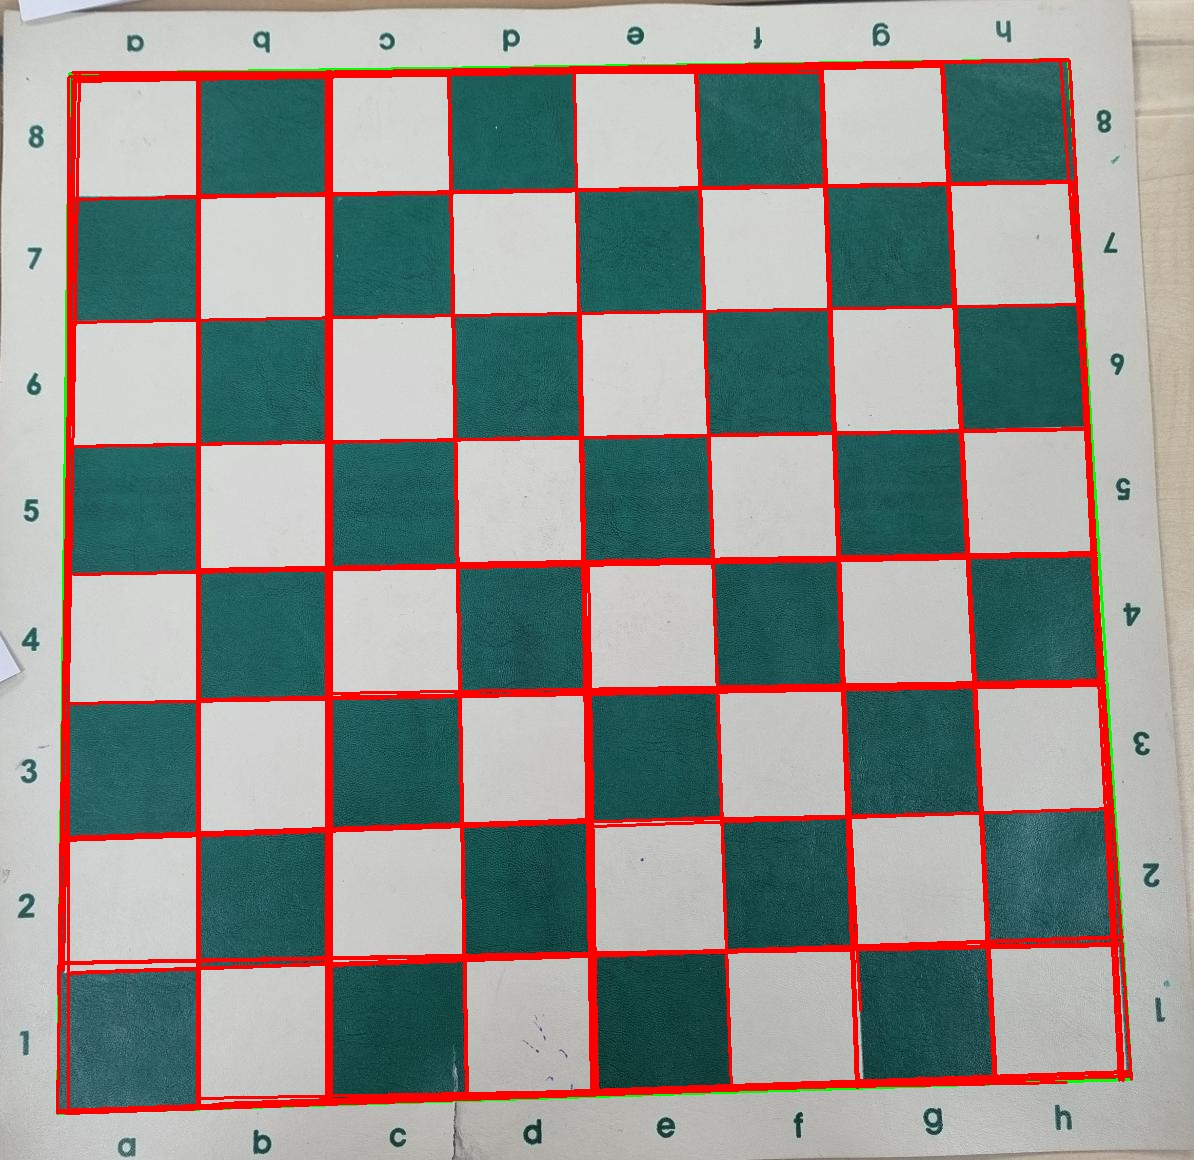
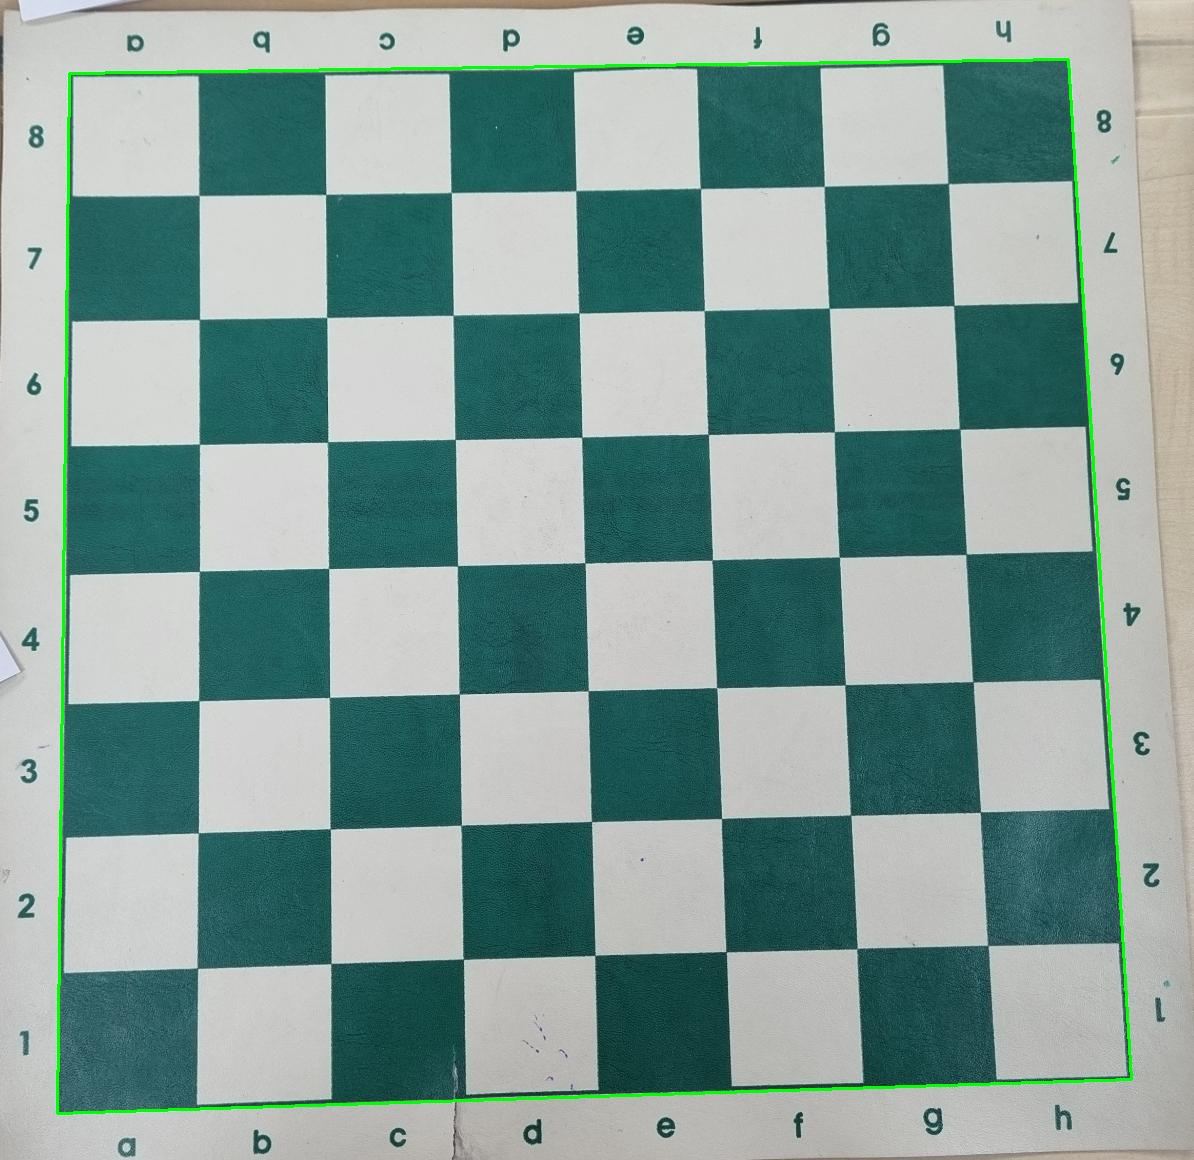
a

Changed region(s): [[0.031, 0.031, 0.9606, 0.9621]]

diff --git a/tajriba.py b/tajriba.py
@@ -1,0 +1,47 @@
+import cv2
+import numpy as np
+
+# Chemin de l'image
+image_path = 'C:\\Users\\hp\\Desktop\\connectmobile\\image'
+output_path = 'C:\\Users\\hp\\Desktop\\connectmobile\\image'
+
+def compter_carreaux_blancs(nom_image):
+    # Charger l'image depuis le fichier
+    image = cv2.imread(f"{image_path}\\{nom_image}")
+
+    # Convertir l'image en niveaux de gris
+    gray = cv2.cvtColor(image, cv2.COLOR_BGR2GRAY)
+
+    # Définir les plages de couleurs que vous souhaitez détecter (noir et blanc)
+    lower_black = 0
+    upper_black = 100
+
+    lower_white = 150
+    upper_white = 255
+
+    # Créer les masques pour chaque plage de couleurs
+    mask_black = cv2.inRange(gray, lower_black, upper_black)
+    mask_white = cv2.inRange(gray, lower_white, upper_white)
+
+    # Appliquer les masques à l'image d'origine
+    result_black = cv2.bitwise_and(gray, gray, mask=mask_black)
+    result_white = cv2.bitwise_and(gray, gray, mask=mask_white)
+
+    # Trouver les contours dans les images résultantes
+    contours_black, _ = cv2.findContours(mask_black, cv2.RETR_EXTERNAL, cv2.CHAIN_APPROX_SIMPLE)
+    contours_white, _ = cv2.findContours(mask_white, cv2.RETR_EXTERNAL, cv2.CHAIN_APPROX_SIMPLE)
+
+    # Dessiner les contours sur l'image d'origine
+    image_with_contours = image.copy()
+    cv2.drawContours(image_with_contours, contours_white, -1, (255, 0, 0), 2)  # Bleu pour les contours blancs
+    cv2.drawContours(image_with_contours, contours_black, -1, (0, 0, 255), 2)  # Rouge pour les contours noirs
+    # Enregistrer l'image avec les contours
+    cv2.imwrite(f'{output_path}\\contours_{nom_image}', image_with_contours)
+
+    # Compter le nombre de carreaux blancs
+    nombre_carreaux_blancs = len(contours_white)
+    print(f"Nombre de carreaux blancs : {nombre_carreaux_blancs}")
+    nombre_carreaux_noirs = len(contours_black)
+    print(f"Nombre de carreaux blancs : {nombre_carreaux_noirs}")
+
+compter_carreaux_blancs("copy_b.jpg")

diff --git a/test.py b/test.py
@@ -1,7 +1,34 @@
-from PIL import Image
-# Fonction pour obtenir les dimensions d'une image
+import cv2
+import numpy as np
 
-chemin_image=r"C:\Users\hp\Desktop\connectmobile\image\setranj.jpg"
-image = Image.open(chemin_image)
-largeur, hauteur = image.size
-print (largeur, hauteur)
+# Chemin de l'image
+image_path = 'C:\\Users\\hp\\Desktop\\connectmobile\\image'
+output_path = 'C:\\Users\\hp\\Desktop\\connectmobile\\image'
+def analyse_carreau(nom_image):
+	# Charger l'image depuis le fichier
+	image = cv2.imread(f"{image_path}\\{nom_image}")
+
+	# Convertir l'image en niveaux de gris
+	gray = cv2.cvtColor(image, cv2.COLOR_BGR2GRAY)
+
+	# Définir les plages de couleurs que vous souhaitez détecter (noir et blanc)
+	lower_black = 0
+	upper_black = 100
+
+	lower_white = 150
+	upper_white = 255
+
+	# Créer les masques pour chaque plage de couleurs
+	mask_black = cv2.inRange(gray, lower_black, upper_black)
+	mask_white = cv2.inRange(gray, lower_white, upper_white)
+
+	# Appliquer les masques à l'image d'origine
+	result_black = cv2.bitwise_and(gray, gray, mask=mask_black)
+	result_white = cv2.bitwise_and(gray, gray, mask=mask_white)
+
+	# Enregistrer les images résultantes
+	cv2.imwrite(f'{output_path}\\noir_b.jpg', result_black)
+	cv2.imwrite(f'{output_path}\\blanc_b.jpg', result_white)
+
+analyse_carreau("copy_b.jpg")
+

diff --git a/analyse_image.py b/analyse_image.py
@@ -17,7 +17,7 @@ def decouper_image(image_name):
     # Enregistrer l'image découpée
     cropped_img.save(f"{image_path}\\copy_{image_name}")
 
-decouper_image("b.jpg")
+
 
 def img_noir_blanc(image_name):
     # Charger l'image depuis le fichier
@@ -47,21 +47,9 @@ def img_noir_blanc(image_name):
     result = image.copy()
     cv2.drawContours(result, rectangles, -1, (0, 255, 0), 2)
 
-    # Récupérer les coordonnées du rectangle vert
-    x, y, w, h = cv2.boundingRect(rectangles[0])
-
-    # Utiliser la transformation de Hough Probabiliste uniquement dans le rectangle vert
-    roi = edges[y:y+h, x:x+w]
-    lines = cv2.HoughLinesP(roi, 1, np.pi / 180, threshold=90, minLineLength=100, maxLineGap=400)#b9a kd bedel fiha htad chof bi ana kolchi mejdod
-
-    # Dessiner les segments détectés sur l'image originale
-    for line in lines:
-        x1, y1, x2, y2 = line[0]
-        # Ajouter les coordonnées du rectangle vert pour dessiner les lignes dans le contexte de l'image complète
-        cv2.line(result, (x + x1, y + y1), (x + x2, y + y2), (0, 0, 255), 2)
-    
-
     # Enregistrer l'image résultante
     cv2.imwrite(f"{image_path}\\result_{image_name}", result)
+
+
 
 img_noir_blanc("b.jpg")
